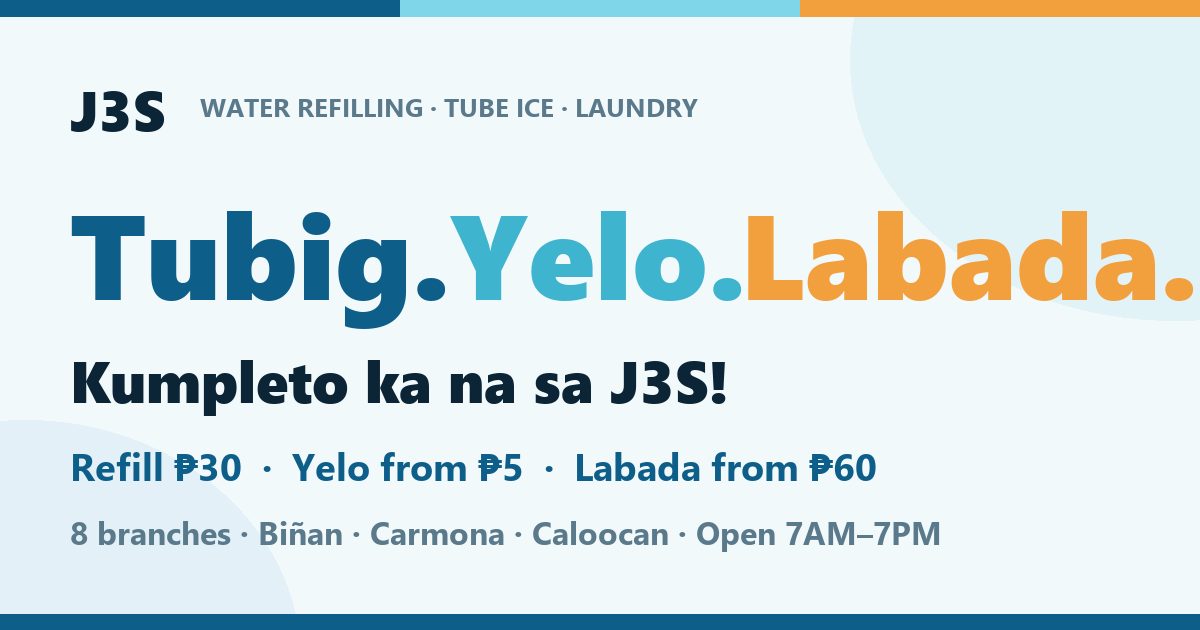
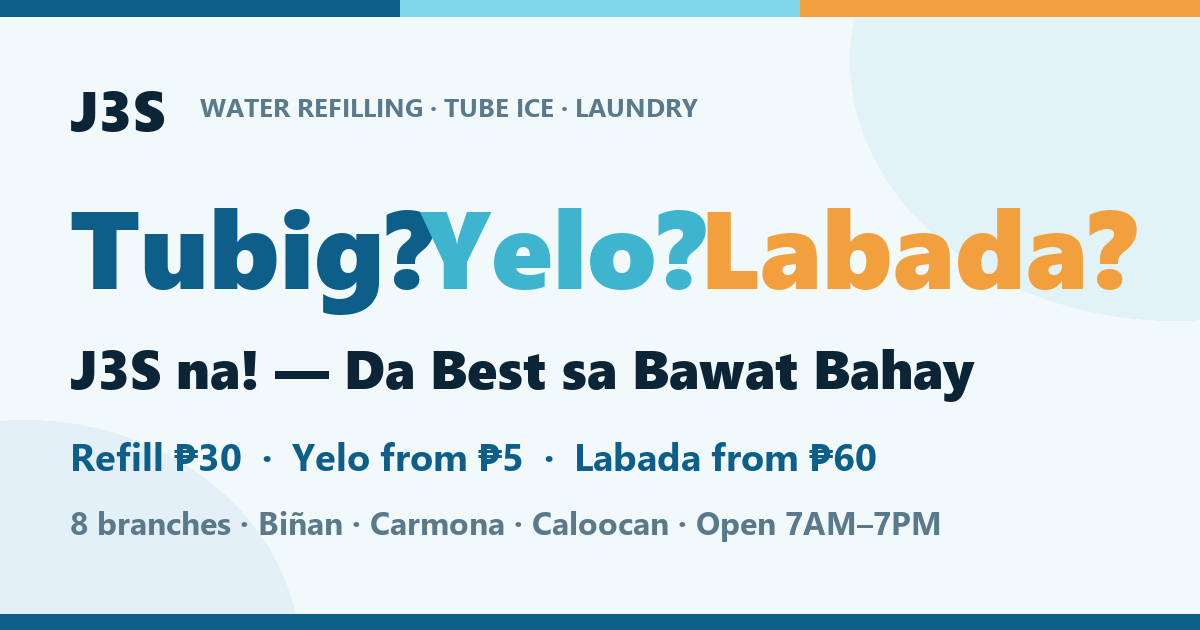
Brand rollout: "J3S na!" + "Da Best sa Bawat Bahay" + owner-editable content
- Owner picked brand device #1 (Tubig? Yelo? Labada? - J3S na!) with
  #2 (Da Best sa Bawat Bahay) as supporting line: services heading,
  hero note, OG/Twitter cards, all three graphics, captions
- Site now renders through renderSite(C): draws instantly from baked
  CONTENT, then refreshes from the J3S system's public website-content
  feed - the owner edits the site from the management program without
  code or Claude
- Sheyenne named in Our Story
- QR codes + printed URLs now point at j3sthebest.com (old github.io
  URL will redirect once the domain is attached)

diff --git a/index.html b/index.html
@@ -9,15 +9,15 @@
 <!-- Open Graph: controls how the link looks when shared on Facebook/Messenger -->
 <meta property="og:type" content="website">
 <meta property="og:site_name" content="J3S">
-<meta property="og:title" content="J3S — Tubig. Yelo. Labada. Kumpleto ka na sa J3S!">
-<meta property="og:description" content="Refill ₱30 · Yelo from ₱5 · Labada from ₱60. 8 branches sa Biñan, Carmona, at Caloocan. Open 7AM–7PM. Order online, cash o GCash!">
+<meta property="og:title" content="J3S — Tubig? Yelo? Labada? J3S na!">
+<meta property="og:description" content="Da Best sa Bawat Bahay. Refill ₱30 · Yelo from ₱5 · Labada from ₱60. 8 branches sa Biñan, Carmona, at Caloocan. Open 7AM–7PM. Cash o GCash!">
 <meta property="og:url" content="https://jclising2026.github.io/j3s-website/">
 <meta property="og:image" content="https://jclising2026.github.io/j3s-website/og-image.png">
 <meta property="og:image:width" content="1200">
 <meta property="og:image:height" content="630">
 <meta property="og:locale" content="en_PH">
 <meta name="twitter:card" content="summary_large_image">
-<meta name="twitter:title" content="J3S — Tubig. Yelo. Labada.">
+<meta name="twitter:title" content="J3S — Tubig? Yelo? Labada? J3S na!">
 <meta name="twitter:description" content="Refill ₱30 · Yelo from ₱5 · Labada from ₱60 · 8 branches · Open 7AM–7PM">
 <meta name="twitter:image" content="https://jclising2026.github.io/j3s-website/og-image.png">
 <script type="application/ld+json">
@@ -259,7 +259,7 @@ a.tel:hover{color:var(--sea);text-decoration:underline}
       </h1>
       <p class="hero-sub">Clean purified water, fresh tube ice, and wash-dry-fold laundry —
         delivered by your neighborhood J3S branch.</p>
-      <p class="hero-note">8 branches across Biñan Laguna, Carmona Cavite &amp; Baesa Caloocan · Open 7 AM – 7 PM · Cash or GCash</p>
+      <p class="hero-note">Da Best sa Bawat Bahay · 8 branches across Biñan, Carmona &amp; Caloocan · Open 7 AM – 7 PM · Cash or GCash</p>
       <div class="cta-row">
         <a class="btn sun" href="#branches">Find your branch</a>
         <a class="btn" href="#prices" style="background:transparent;color:var(--sea);border:2px solid var(--sea)">See prices</a>
@@ -282,10 +282,10 @@ a.tel:hover{color:var(--sea);text-decoration:underline}
   <section id="services">
     <div class="wrap">
       <p class="eyebrow">Serbisyong J3S</p>
-      <h2>Kumpleto ka na sa J3S!</h2>
-      <p style="color:var(--mist);max-width:56ch;margin:-4px 0 22px;font-size:17px">
-        Malinis na inuming tubig. Malamig na yelo araw-araw. Labadang mabango ang balik.
-        Everything your home needs — from your neighborhood J3S.</p>
+      <h2 id="svcHeading">Tubig? Yelo? Labada? — J3S na!</h2>
+      <p id="svcSubline" style="color:var(--mist);max-width:56ch;margin:-4px 0 22px;font-size:17px">
+        Da Best sa Bawat Bahay — malinis na inuming tubig, malamig na yelo araw-araw,
+        at labadang mabango ang balik.</p>
       <div class="cards">
         <div class="card svc-water reveal">
           <span class="bar" aria-hidden="true"></span>
@@ -577,9 +577,23 @@ function peso(n){ return '₱' + Number(n).toLocaleString('en-PH'); }
 
 var SVC_LABEL = { water:['sc-water','WATER'], ice:['sc-ice','ICE'], laundry:['sc-laundry','LAUNDRY'] };
 
-document.getElementById('branchGrid').innerHTML = CONTENT.branches.map(function(b, i){
-  var chips = b.services.map(function(s){
-    var d = SVC_LABEL[s]; return '<span class="' + d[0] + '">' + d[1] + '</span>';
+/* All rendering lives in renderSite() so the page can draw twice:
+   instantly with the baked-in CONTENT above, then again with the
+   owner-published content fetched from the J3S system. */
+var CURRENT = CONTENT;
+function renderSite(C){
+CURRENT = C;
+
+if (C.site && C.site.heading) {
+  var _sh = document.getElementById('svcHeading'); if (_sh) _sh.textContent = C.site.heading;
+}
+if (C.site && C.site.subline) {
+  var _ss = document.getElementById('svcSubline'); if (_ss) _ss.textContent = C.site.subline;
+}
+
+document.getElementById('branchGrid').innerHTML = C.branches.map(function(b, i){
+  var chips = (b.services || []).map(function(s){
+    var d = SVC_LABEL[s]; return d ? '<span class="' + d[0] + '">' + d[1] + '</span>' : '';
   }).join('');
   // phones render as tap-to-call links (multiple numbers split on the dot)
   var phone = b.phone
@@ -602,15 +616,15 @@ document.getElementById('branchGrid').innerHTML = CONTENT.branches.map(function(
   '</div>';
 }).join('');
 
-document.getElementById('priceRows').innerHTML = CONTENT.prices.map(function(p){
-  var amt = (p.price === null) ? 'ask branch' : peso(p.price);
+document.getElementById('priceRows').innerHTML = C.prices.map(function(p){
+  var amt = (p.price === null || p.price === undefined) ? 'ask branch' : peso(p.price);
   return '<tr><td>' + esc(p.product) + '</td><td>' + esc(p.service) + '</td><td class="amt">' + amt + '</td></tr>';
 }).join('');
 
 /* GCash directory: group branches by account number */
 var acctMap = {};
-CONTENT.branches.forEach(function(b){
-  if (!b.gcash) return;
+C.branches.forEach(function(b){
+  if (!b.gcash || !b.gcash.number) return;
   var k = b.gcash.number;
   if (!acctMap[k]) acctMap[k] = { name: b.gcash.name, email: b.gcash.email || '', branches: [] };
   acctMap[k].branches.push(b.name.replace(/^J3S\d*\s*/, '').replace(/^Southville /, ''));
@@ -624,27 +638,54 @@ document.getElementById('gcashDirectory').innerHTML = Object.keys(acctMap).map(f
 
 /* testimonials + photo gallery: render only when content exists */
 var revSec = document.getElementById('reviews');
-if (CONTENT.testimonials.length && revSec) {
-  document.getElementById('reviewCards').innerHTML = CONTENT.testimonials.map(function(t){
-    return '<div class="card reveal"><span class="bar" style="background:var(--sun)" aria-hidden="true"></span>' +
+var _testi = C.testimonials || [];
+if (_testi.length && revSec) {
+  revSec.style.display = '';
+  document.getElementById('reviewCards').innerHTML = _testi.map(function(t){
+    return '<div class="card reveal in"><span class="bar" style="background:var(--sun)" aria-hidden="true"></span>' +
       '<p style="color:var(--ink);font-size:16px">&ldquo;' + esc(t.quote) + '&rdquo;</p>' +
       '<p class="price" style="color:var(--mist)">' + esc(t.name) + (t.area ? ' · ' + esc(t.area) : '') + '</p></div>';
   }).join('');
 } else if (revSec) { revSec.style.display = 'none'; }
 
 var galSec = document.getElementById('gallery');
-if (CONTENT.photos.length && galSec) {
-  document.getElementById('galleryGrid').innerHTML = CONTENT.photos.map(function(p){
+var _photos = C.photos || [];
+if (_photos.length && galSec) {
+  galSec.style.display = '';
+  document.getElementById('galleryGrid').innerHTML = _photos.map(function(p){
     return '<img src="' + esc(p.src) + '" alt="' + esc(p.alt || '') + '" loading="lazy" style="width:100%;border-radius:14px;border:1px solid var(--line)">';
   }).join('');
 } else if (galSec) { galSec.style.display = 'none'; }
 document.getElementById('emailLine').innerHTML =
-  '<a href="mailto:' + esc(CONTENT.email) + '">' + esc(CONTENT.email) + '</a>';
-document.getElementById('fbLine').innerHTML = !CONTENT.facebook
+  '<a href="mailto:' + esc(C.email) + '">' + esc(C.email) + '</a>';
+document.getElementById('fbLine').innerHTML = !C.facebook
   ? '<span class="tba">Facebook page link to be added</span>'
-  : (CONTENT.facebook.indexOf('http') === 0
-      ? '<a href="' + esc(CONTENT.facebook) + '">' + esc(CONTENT.facebook) + '</a>'
-      : 'Message us on Messenger:<br><b>' + esc(CONTENT.facebook) + '</b>');
+  : (C.facebook.indexOf('http') === 0
+      ? '<a href="' + esc(C.facebook) + '">' + esc(C.facebook) + '</a>'
+      : 'Message us on Messenger:<br><b>' + esc(C.facebook) + '</b>');
+
+/* keep the feedback form's branch dropdown in sync */
+var _fbSel = document.getElementById('fbBranch');
+if (_fbSel) {
+  _fbSel.innerHTML = '<option value="">General / not sure</option>' +
+    C.branches.map(function(b){ return '<option value="' + esc(b.name) + '">' + esc(b.name) + '</option>'; }).join('');
+}
+}
+renderSite(CONTENT);
+
+/* Live content: the owner edits the website from the J3S system
+   (Website Content page); this fetch picks up their published version.
+   If the system is unreachable, the baked-in content above stays. */
+fetch('https://j3s-southville-main.up.railway.app/api/public/website-content', {cache: 'no-store'})
+  .then(function(r){ if (!r.ok) throw new Error('http'); return r.json(); })
+  .then(function(d){
+    if (d && d.content && d.content.branches && d.content.branches.length) {
+      var c = d.content;
+      c.feedbackApi = CONTENT.feedbackApi;
+      renderSite(c);
+    }
+  })
+  .catch(function(){ /* offline / app restarting — keep baked content */ });
 
 document.getElementById('footerYear').textContent =
   '© ' + new Date().getFullYear() + ' J3S. All prices in Philippine pesos.';
@@ -715,7 +756,7 @@ document.getElementById('footerYear').textContent =
 /* GCash QR modal: shows the branch account's QR image when provided,
    or clear pay-by-number instructions until the QR is added */
 function openQr(i) {
-  var b = CONTENT.branches[i];
+  var b = CURRENT.branches[i];
   if (!b || !b.gcash) return;
   document.getElementById('qrTitle').textContent = b.name + ' — GCash';
   document.getElementById('qrNumber').textContent = b.gcash.name + ' · ' + b.gcash.number;

diff --git a/promo/FACEBOOK_ADS.md b/promo/FACEBOOK_ADS.md
@@ -1,6 +1,6 @@
 # J3S Facebook / Messenger / Reels Ad Kit
 
-Website: https://jclising2026.github.io/j3s-website/
+Website: https://j3sthebest.com/  (old github.io link redirects here)
 Images: `j3s-fb-post-1080.png` (posts), `j3s-reel-story-1080x1920.png` (Reels/Stories)
 
 Facebook makes the URL clickable automatically when pasted in a caption.
@@ -14,7 +14,8 @@ first comment).
 
 🚨 LIVE NA ANG J3S WEBSITE! 🚨
 
-Tubig. Yelo. Labada. 💧🧊👕
+Tubig? Yelo? Labada? — J3S na! 💧🧊👕
+Da Best sa Bawat Bahay!
 Lahat ng branch namin, prices, at contact numbers — nasa isang website na!
 
 ✅ Refill ₱30 (5 gallons)
@@ -25,7 +26,7 @@ Lahat ng branch namin, prices, at contact numbers — nasa isang website na!
 ✅ 8 branches — Biñan · Carmona · Caloocan
 🕖 Open 7AM–7PM
 
-Order na dito 👉 https://jclising2026.github.io/j3s-website/
+Order na dito 👉 https://j3sthebest.com/
 
 #J3S #WaterRefillingStation #TubeIce #Laundry #Binan #Carmona #Caloocan
 
@@ -41,7 +42,7 @@ at mga container na inaalagaan — hindi binibilad sa araw.
 Kasi ang tubig, kalusugan ng pamilya mo.
 
 ₱30 lang ang 5-gallon refill. Delivery available!
-👉 https://jclising2026.github.io/j3s-website/
+👉 https://j3sthebest.com/
 
 #SafeWater #WaterRefilling #J3S #Binan
 
@@ -56,7 +57,7 @@ Mula sariling ice plant namin (J3S2 Arkansas ICE — open 7 days a week!):
 • 20 kilos ₱100 • Whole block ₱140
 • Wholesale para sa tindahan at events
 
-Order online, bayad cash o GCash 👉 https://jclising2026.github.io/j3s-website/
+Order online, bayad cash o GCash 👉 https://j3sthebest.com/
 
 #TubeIce #YeloWholesale #J3S #Binan #Carmona
 
@@ -71,7 +72,7 @@ at tine-track namin ang bawat reklamo hanggang maayos.
 
 Kasi ang serbisyo, pinapabuti — hindi ipinagtatanggol. 💙
 
-👉 https://jclising2026.github.io/j3s-website/ (Feedback section)
+👉 https://j3sthebest.com/ (Feedback section)
 
 ---
 
@@ -86,7 +87,7 @@ Sa J3S Laundry:
 
 Dalhin mo lang, o ipa-pickup mo pa — babalik na mabango at nakatiklop. 😌
 
-👉 https://jclising2026.github.io/j3s-website/
+👉 https://j3sthebest.com/
 
 #Laundry #WashDryFold #J3S #Binan #Carmona
 
@@ -101,7 +102,7 @@ Dalhin mo lang, o ipa-pickup mo pa — babalik na mabango at nakatiklop. 😌
 3. (6–9s)  Laundry: folded fresh clothes stacking up.
            Text overlay: "Labada."
 4. (9–14s) Staff smiling / storefront / tricycle delivery leaving.
-           Text overlay: "Kumpleto ka na sa J3S!"
+           Text overlay: "J3S na! — Da Best sa Bawat Bahay"
 5. (14–20s) End card: use `j3s-reel-story-1080x1920.png`
            Voice/text: "8 branches. Open 7AM–7PM. Order online — scan o
            i-click ang link sa comments!"